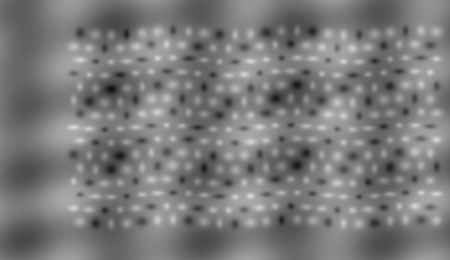
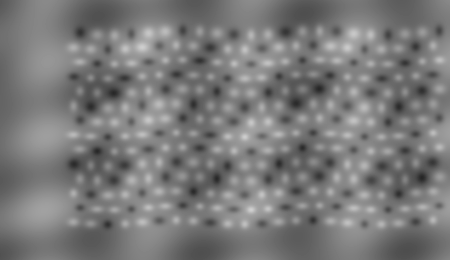
Update rover SCM terrain examples

diff --git a/lessons/phase4/Jongmin/rover_move.py b/lessons/phase4/Jongmin/rover_move.py
@@ -4,71 +4,59 @@ import pychrono.robot as robot
 from pychrono import irrlicht as chronoirr
 import numpy as np
 import matplotlib.pyplot as plt
-import random
 
 
 # =========================
 # Settings
 # =========================
-time_step = 1e-3
+time_step = 1.5e-3
 
 terrain_length = 42.0
 terrain_width = 24.0
 heightmap_file = "scm_pockmarked_mars_heightmap.png"
 
-terrain_delta = 0.06
+terrain_delta = 0.10
 
-h_min = -0.85
-h_max = 0.95
-
-random.seed(7)
-np.random.seed(7)
+h_min = -0.75
+h_max = 0.85
 
 
 # =========================
 # Height function
 # =========================
 def terrain_height(x, y):
-
     z = 0.0
 
-    # 사진 같은 pockmarked terrain:
-    # 촘촘한 둥근 혹 + 구덩이 혼합
-    spacing_x = 1.45
-    spacing_y = 1.25
+    spacing_x = 1.6
+    spacing_y = 1.35
 
     x_centers = np.arange(-14.0, 20.0, spacing_x)
     y_centers = np.arange(-9.0, 9.0, spacing_y)
 
     for i, cx in enumerate(x_centers):
-
         for j, cy in enumerate(y_centers):
 
-            # 행마다 조금씩 offset 줘서 벌집/물결 느낌
             cx2 = cx + (0.45 if j % 2 == 0 else -0.15)
             cy2 = cy + 0.20 * np.sin(i * 0.8)
 
             dx = x - cx2
             dy = y - cy2
 
-            rx = 0.65 + 0.20 * np.sin(i * 1.7 + j)
-            ry = 0.55 + 0.18 * np.cos(j * 1.3)
+            rx = 0.75 + 0.18 * np.sin(i * 1.7 + j)
+            ry = 0.65 + 0.15 * np.cos(j * 1.3)
 
             r2 = (dx / rx) ** 2 + (dy / ry) ** 2
 
-            # 혹/구덩이 번갈아 배치
             if (i + j) % 3 == 0:
-                amp = -0.42
+                amp = -0.32
             else:
-                amp = 0.38
+                amp = 0.30
 
-            # dome/crater profile
-            z += amp * np.exp(-2.4 * r2)
+            z += amp * np.exp(-2.2 * r2)
 
-    # 큰 지형 흐름 추가
-    z += 0.16 * np.sin(0.75 * x)
-    z += 0.10 * np.cos(0.95 * y)
-    z += 0.08 * np.sin(0.35 * x + 1.1 * y)
+    z += 0.12 * np.sin(0.65 * x)
+    z += 0.08 * np.cos(0.85 * y)
+    z += 0.06 * np.sin(0.35 * x + 1.0 * y)
 
     return np.clip(z, h_min, h_max)
 
@@ -77,32 +65,18 @@ def terrain_height(x, y):
 # Generate heightmap
 # =========================
 def create_heightmap():
-
     nx = 450
     ny = 260
 
-    x = np.linspace(
-        -terrain_length / 2,
-        terrain_length / 2,
-        nx
-    )
-
-    y = np.linspace(
-        -terrain_width / 2,
-        terrain_width / 2,
-        ny
-    )
+    x = np.linspace(-terrain_length / 2, terrain_length / 2, nx)
+    y = np.linspace(-terrain_width / 2, terrain_width / 2, ny)
 
     X, Y = np.meshgrid(x, y)
-
     Z = np.zeros_like(X)
 
     for row in range(ny):
         for col in range(nx):
-            Z[row, col] = terrain_height(
-                X[row, col],
-                Y[row, col]
-            )
+            Z[row, col] = terrain_height(X[row, col], Y[row, col])
 
     Z_img = (Z - h_min) / (h_max - h_min)
     Z_img = np.clip(Z_img, 0.0, 1.0)
@@ -116,6 +90,61 @@ def create_heightmap():
     )
 
 
+# =========================
+# Quaternion to pitch/roll
+# =========================
+def quat_component(q, name):
+    value = getattr(q, name)
+
+    if callable(value):
+        return value()
+
+    return value
+
+
+def get_pitch_roll_deg(body):
+    q = body.GetRot()
+
+    w = quat_component(q, "e0")
+    x = quat_component(q, "e1")
+    y = quat_component(q, "e2")
+    z = quat_component(q, "e3")
+
+    roll = np.arctan2(
+        2.0 * (w * x + y * z),
+        1.0 - 2.0 * (x * x + y * y)
+    )
+
+    pitch_arg = 2.0 * (w * y - z * x)
+    pitch_arg = np.clip(pitch_arg, -1.0, 1.0)
+    pitch = np.arcsin(pitch_arg)
+
+    return np.degrees(pitch), np.degrees(roll)
+
+
+def get_tracking_body(rover):
+    if hasattr(rover, "GetChassis"):
+        chassis = rover.GetChassis()
+
+        if hasattr(chassis, "GetBody"):
+            return chassis.GetBody()
+
+        if hasattr(chassis, "GetPos"):
+            return chassis
+
+    if hasattr(rover, "GetChassisBody"):
+        return rover.GetChassisBody()
+
+    raise RuntimeError(
+        "Cannot access Curiosity chassis body. "
+        "Run: python -c \"import pychrono.robot as robot; "
+        "print([x for x in dir(robot.Curiosity) if 'Chassis' in x or 'Body' in x])\""
+    )
+
+
+# =========================
+# Create heightmap
+# =========================
 create_heightmap()
 
 
@@ -123,14 +152,8 @@ create_heightmap()
 # System
 # =========================
 system = chrono.ChSystemNSC()
-
-system.SetCollisionSystemType(
-    chrono.ChCollisionSystem.Type_BULLET
-)
-
-system.SetGravitationalAcceleration(
-    chrono.ChVector3d(0, 0, -3.71)
-)
+system.SetCollisionSystemType(chrono.ChCollisionSystem.Type_BULLET)
+system.SetGravitationalAcceleration(chrono.ChVector3d(0, 0, -3.71))
 
 chrono.ChCollisionModel.SetDefaultSuggestedEnvelope(0.0025)
 chrono.ChCollisionModel.SetDefaultSuggestedMargin(0.0025)
@@ -142,14 +165,14 @@ chrono.ChCollisionModel.SetDefaultSuggestedMargin(0.0025)
 terrain = veh.SCMTerrain(system)
 
 terrain.SetSoilParameters(
-    1.4e6,    # Bekker Kphi
-    0.0,      # Bekker Kc
-    1.1,      # Bekker n
-    0.0,      # Mohr cohesion
-    32.0,     # Mohr friction angle
-    0.015,    # Janosi shear
-    3.0e7,    # elastic stiffness
-    2.5e4     # damping
+    1.4e6,
+    0.0,
+    1.1,
+    0.0,
+    32.0,
+    0.015,
+    3.0e7,
+    2.5e4
 )
 
 terrain.EnableBulldozing(True)
@@ -181,18 +204,16 @@ terrain.SetPlotType(
 # Curiosity Rover
 # =========================
 driver = robot.CuriositySpeedDriver(
-    0.4,    # ramp time
-    1.6     # speed command
+    0.4,
+    1.2
 )
 
 rover = robot.Curiosity(system)
-
 rover.SetDriver(driver)
 
-# 시작 위치 지형 높이에 맞춤
-start_x = -17.0
+start_x = -12.0
 start_y = 0.0
-start_z = terrain_height(start_x, start_y) + 0.35
+start_z = terrain_height(start_x, start_y) + 0.05
 
 rover.Initialize(
     chrono.ChFramed(
@@ -201,57 +222,30 @@ rover.Initialize(
             start_y,
             start_z
         ),
-        chrono.ChQuaterniond(
-            1,
-            0,
-            0,
-            0
-        )
+        chrono.ChQuaterniond(1, 0, 0, 0)
     )
 )
+
+tracking_body = get_tracking_body(rover)
 
 
 # =========================
 # Visualization
 # =========================
 vis = chronoirr.ChVisualSystemIrrlicht()
-
 vis.AttachSystem(system)
 
-vis.SetCameraVertical(
-    chrono.CameraVerticalDir_Z
-)
-
-vis.SetWindowSize(
-    1280,
-    720
-)
-
-vis.SetWindowTitle(
-    "Curiosity Rover - Pockmarked SCM Mars Terrain"
-)
+vis.SetCameraVertical(chrono.CameraVerticalDir_Z)
+vis.SetWindowSize(1280, 720)
+vis.SetWindowTitle("Curiosity Rover - SCM Mars Terrain Data Test")
 
 vis.Initialize()
-
-vis.AddLogo(
-    chrono.GetChronoDataFile(
-        "logo_chrono_alpha.png"
-    )
-)
-
+vis.AddLogo(chrono.GetChronoDataFile("logo_chrono_alpha.png"))
 vis.AddSkyBox()
 
 vis.AddCamera(
-    chrono.ChVector3d(
-        -15,
-        10,
-        5.5
-    ),
-    chrono.ChVector3d(
-        3,
-        0,
-        0.4
-    )
+    chrono.ChVector3d(-20, 10, 6),
+    chrono.ChVector3d(start_x, 0, 0.8)
 )
 
 vis.AddTypicalLights()
@@ -265,6 +259,15 @@ vis.AddLightWithShadow(
     60,
     512
 )
+
+
+# =========================
+# Data storage
+# =========================
+time_data = []
+height_data = []
+pitch_data = []
+roll_data = []
 
 
 # =========================
@@ -282,12 +285,65 @@ while vis.Run():
 
     terrain.Synchronize(time)
 
+    pos = tracking_body.GetPos()
+
+    pitch_deg, roll_deg = get_pitch_roll_deg(tracking_body)
+
+    time_data.append(time)
+    height_data.append(pos.z)
+    pitch_data.append(pitch_deg)
+    roll_data.append(roll_deg)
+
+    # =========================
+    # Follow camera
+    # =========================
+    camera_pos = chrono.ChVector3d(
+        pos.x - 7.0,
+        pos.y + 6.0,
+        pos.z + 3.5
+    )
+
+    camera_target = chrono.ChVector3d(
+        pos.x + 1.5,
+        pos.y,
+        pos.z + 0.5
+    )
+
+    if hasattr(vis, "SetCameraPosition"):
+        vis.SetCameraPosition(camera_pos)
+
+    if hasattr(vis, "SetCameraTarget"):
+        vis.SetCameraTarget(camera_target)
+
     vis.BeginScene()
-
     vis.Render()
-
     vis.EndScene()
 
     terrain.Advance(time_step)
-
     system.DoStepDynamics(time_step)
+
+
+# =========================
+# Graph 1: Body height
+# =========================
+plt.figure()
+plt.plot(time_data, height_data)
+plt.xlabel("Time [s]")
+plt.ylabel("Chassis Height Z [m]")
+plt.title("Rover Chassis Height over SCM Terrain")
+plt.grid(True)
+
+
+# =========================
+# Graph 2: Pitch / Roll
+# =========================
+plt.figure()
+plt.plot(time_data, pitch_data, label="Pitch [deg]")
+plt.plot(time_data, roll_data, label="Roll [deg]")
+plt.xlabel("Time [s]")
+plt.ylabel("Angle [deg]")
+plt.title("Rover Pitch and Roll over SCM Terrain")
+plt.legend()
+plt.grid(True)
+
+plt.show()
